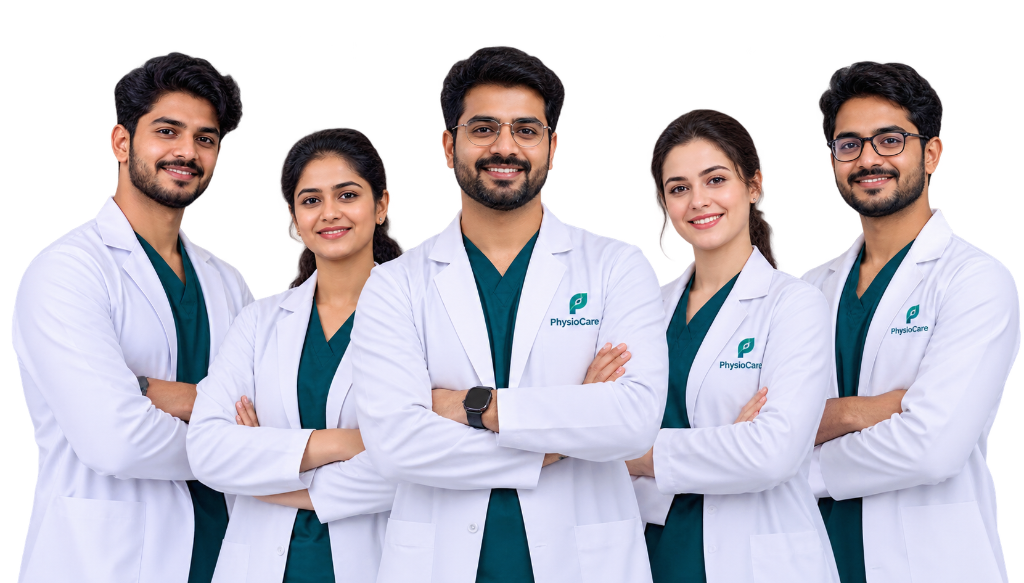
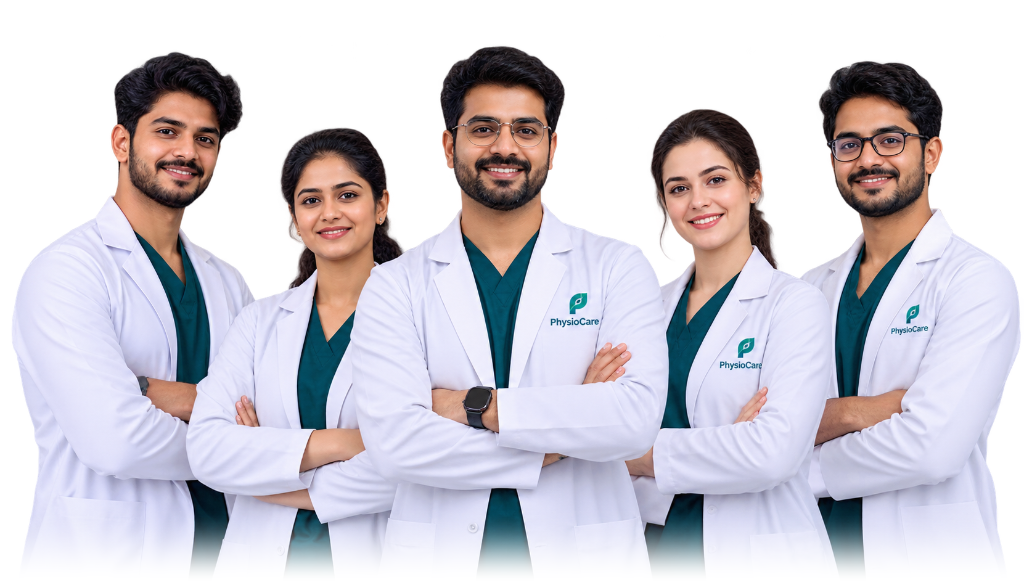
feat(team): expand faculty image size, fix bottom edge with smooth feathering, and add left/right entrance with continuous floating loop

Changed region(s): [[0.0, 0.8954, 1.0, 1.0]]

diff --git a/team.html b/team.html
@@ -234,10 +234,10 @@
       <div class="absolute top-1/2 right-1/4 w-64 h-64 bg-cyan-300/20 dark:bg-cyan-500/5 rounded-full blur-2xl pointer-events-none -z-10"></div>
 
       <div class="max-w-7xl mx-auto px-4 sm:px-6 lg:px-8 relative z-10">
-        <div class="grid lg:grid-cols-12 gap-12 lg:gap-8 items-center">
+        <div class="grid lg:grid-cols-12 gap-8 lg:gap-10 items-center">
           
-          <!-- Left Column: Editorial Content (Centered on Mobile, Left on Desktop) -->
-          <div class="lg:col-span-6 space-y-6 text-center lg:text-left flex flex-col items-center lg:items-start">
+          <!-- Left Column: Editorial Content (5 cols for broader visual balance) -->
+          <div class="lg:col-span-5 space-y-6 text-center lg:text-left flex flex-col items-center lg:items-start">
             
             <!-- Category Badge -->
             <div class="inline-flex items-center gap-2 px-3.5 py-1.5 rounded-full bg-white/90 dark:bg-teal-950/80 border border-teal-200/90 dark:border-teal-800 text-teal-800 dark:text-teal-300 text-xs font-bold uppercase tracking-wider mx-auto lg:mx-0 shadow-2xs">
@@ -246,12 +246,12 @@
             </div>
 
             <!-- Main Heading -->
-            <h1 class="text-3xl sm:text-5xl lg:text-6xl font-black text-slate-900 dark:text-white font-heading tracking-tight leading-[1.12]">
+            <h1 class="text-3xl sm:text-5xl lg:text-5xl xl:text-6xl font-black text-slate-900 dark:text-white font-heading tracking-tight leading-[1.12]">
               The People Who Help You <span class="text-teal-700 dark:text-teal-400">Move Forward.</span>
             </h1>
 
             <!-- Description -->
-            <p class="text-sm sm:text-base lg:text-lg text-slate-600 dark:text-slate-300 max-w-xl mx-auto lg:mx-0 leading-relaxed font-normal">
+            <p class="text-sm sm:text-base text-slate-600 dark:text-slate-300 max-w-xl mx-auto lg:mx-0 leading-relaxed font-normal">
               Skilled hands. Thoughtful care. One shared commitment to your recovery. Every clinician at PhysioCare combines doctoral-level rehabilitation science with dedicated one-on-one attention.
             </p>
 
@@ -269,52 +269,55 @@
             <!-- Micro Metrics Row -->
             <div class="grid grid-cols-3 gap-3 sm:gap-6 pt-6 sm:pt-8 border-t border-slate-200/80 dark:border-slate-800 w-full max-w-md mx-auto lg:mx-0 text-center">
               <div>
-                <p class="text-xl sm:text-2xl lg:text-3xl font-black text-slate-900 dark:text-white font-heading">100%</p>
+                <p class="text-xl sm:text-2xl font-black text-slate-900 dark:text-white font-heading">100%</p>
                 <p class="text-[11px] sm:text-xs text-slate-500 dark:text-slate-400 font-medium mt-0.5">Doctoral Faculty</p>
               </div>
               <div>
-                <p class="text-xl sm:text-2xl lg:text-3xl font-black text-teal-700 dark:text-teal-400 font-heading">15+</p>
+                <p class="text-xl sm:text-2xl font-black text-teal-700 dark:text-teal-400 font-heading">15+</p>
                 <p class="text-[11px] sm:text-xs text-slate-500 dark:text-slate-400 font-medium mt-0.5">Rehab Clinicians</p>
               </div>
               <div>
-                <p class="text-xl sm:text-2xl lg:text-3xl font-black text-slate-900 dark:text-white font-heading">12k+</p>
+                <p class="text-xl sm:text-2xl font-black text-slate-900 dark:text-white font-heading">12k+</p>
                 <p class="text-[11px] sm:text-xs text-slate-500 dark:text-slate-400 font-medium mt-0.5">Patients Healed</p>
               </div>
             </div>
 
           </div>
 
-          <!-- Right Column: Pure Faculty Choreography with Radiant Light Effects (No Borders, No Badges) -->
-          <div class="lg:col-span-6 relative flex items-center justify-center">
+          <!-- Right Column: Grand Faculty Showcase (7 cols - Enhanced Size & Light Effects) -->
+          <div class="lg:col-span-7 relative flex items-center justify-center">
             
-            <!-- Radiant Ambient Light Effects behind the doctors -->
-            <div class="absolute w-[500px] sm:w-[620px] h-[400px] sm:h-[480px] -top-8 left-1/2 -translate-x-1/2 rounded-full bg-gradient-to-tr from-teal-400/35 via-emerald-300/25 to-teal-100/40 dark:from-teal-600/30 dark:via-emerald-500/20 dark:to-transparent blur-3xl pointer-events-none -z-10"></div>
-            <div class="absolute w-72 h-72 bottom-0 left-1/3 rounded-full bg-emerald-400/20 dark:bg-emerald-500/10 blur-2xl pointer-events-none -z-10"></div>
+            <!-- Radiant Ambient Light Effects: Deepened Mint & Emerald Aura -->
+            <div class="absolute w-[600px] sm:w-[750px] lg:w-[850px] h-[450px] sm:h-[520px] -top-10 left-1/2 -translate-x-1/2 rounded-full bg-gradient-to-tr from-teal-400/35 via-emerald-300/25 to-teal-100/40 dark:from-teal-600/30 dark:via-emerald-500/20 dark:to-transparent blur-3xl pointer-events-none -z-10"></div>
+            <div class="absolute w-80 h-80 bottom-0 left-1/4 rounded-full bg-emerald-400/20 dark:bg-emerald-500/10 blur-2xl pointer-events-none -z-10"></div>
+            
+            <!-- Soft Floor Diffusion Light Effect (Blends bottom edge seamlessly into background) -->
+            <div class="absolute -bottom-4 left-1/2 -translate-x-1/2 w-4/5 h-16 bg-gradient-to-r from-transparent via-teal-300/35 dark:via-teal-500/15 to-transparent blur-xl pointer-events-none -z-10"></div>
 
-            <!-- Staged Assembly Stage (Aspect Ratio 1024 / 583 - 100% Responsive, Zero Border) -->
-            <div class="team-choreography-stage w-full max-w-xl lg:max-w-2xl mx-auto drop-shadow-[0_20px_35px_rgba(15,118,110,0.18)] dark:drop-shadow-[0_25px_40px_rgba(0,0,0,0.7)]">
+            <!-- Staged Assembly Stage (Aspect Ratio 1024 / 583 - Max-w-3xl, Zero Border, Smooth Bottom Mask) -->
+            <div class="team-choreography-stage w-full max-w-xl sm:max-w-2xl lg:max-w-3xl xl:max-w-4xl mx-auto drop-shadow-[0_25px_45px_rgba(15,118,110,0.18)] dark:drop-shadow-[0_30px_50px_rgba(0,0,0,0.7)]">
               
-              <!-- Layer 1: Outer Left Therapist (Enters Third) -->
+              <!-- Layer 1: Outer Left Therapist (Enters from Left side) -->
               <img src="assets/images/team/therapist-1-outer-left.png" 
                    alt="PhysioCare Orthopedic Specialist" 
                    class="team-layer team-layer-outer-left">
 
-              <!-- Layer 5: Outer Right Therapist (Enters Third) -->
+              <!-- Layer 5: Outer Right Therapist (Enters from Right side) -->
               <img src="assets/images/team/therapist-5-outer-right.png" 
                    alt="PhysioCare Sports Medicine Specialist" 
                    class="team-layer team-layer-outer-right">
 
-              <!-- Layer 2: Inner Left Therapist (Enters Second) -->
+              <!-- Layer 2: Inner Left Therapist (Enters from Left side) -->
               <img src="assets/images/team/therapist-2-inner-left.png" 
                    alt="PhysioCare Senior Physical Therapist" 
                    class="team-layer team-layer-inner-left">
 
-              <!-- Layer 4: Inner Right Therapist (Enters Second) -->
+              <!-- Layer 4: Inner Right Therapist (Enters from Right side) -->
               <img src="assets/images/team/therapist-4-inner-right.png" 
                    alt="PhysioCare Neurological Rehabilitation Specialist" 
                    class="team-layer team-layer-inner-right">
 
-              <!-- Layer 3: Center Lead Therapist (Enters First) -->
+              <!-- Layer 3: Center Lead Therapist (Enters Center First) -->
               <img src="assets/images/team/therapist-3-center.png" 
                    alt="PhysioCare Clinical Director" 
                    class="team-layer team-layer-center">

diff --git a/assets/css/custom.css b/assets/css/custom.css
@@ -707,17 +707,21 @@ html.no-js .reveal-fade {
 
 
 /* ==========================================================================
-   STAGED FACULTY THERAPIST CHOREOGRAPHY
-   1. Center therapist enters first
-   2. Inner side therapists enter second
-   3. Outer side therapists enter third
+   STAGED FACULTY THERAPIST CHOREOGRAPHY & CONTINUOUS FLOATING LOOP
+   1. Center therapist enters center-up first
+   2. Inner side therapists enter from left and right sides
+   3. Outer side therapists enter from outer left and right flanks
+   4. Smooth bottom edge fade mask (zero sharp cuts)
+   5. Continuous organic floating breathing loop
    ========================================================================== */
 
 .team-choreography-stage {
   position: relative;
   width: 100%;
   aspect-ratio: 1024 / 583;
-  max-width: 680px;
+  max-width: 900px;
+  -webkit-mask-image: linear-gradient(to bottom, #000 0%, #000 78%, rgba(0, 0, 0, 0.6) 90%, transparent 100%);
+  mask-image: linear-gradient(to bottom, #000 0%, #000 78%, rgba(0, 0, 0, 0.6) 90%, transparent 100%);
 }
 
 .team-layer {
@@ -731,35 +735,51 @@ html.no-js .reveal-fade {
   will-change: opacity, transform;
 }
 
+/* Layer 3: Center Lead Therapist (Enters First, then floats gently) */
 .team-layer-center {
   z-index: 30;
-  animation: enterCenterTherapist 0.85s cubic-bezier(0.16, 1, 0.3, 1) 0.15s forwards;
+  animation: 
+    enterCenterTherapist 0.9s cubic-bezier(0.16, 1, 0.3, 1) 0.15s both,
+    floatLoopCenter 4.4s ease-in-out 1.1s infinite alternate;
 }
 
+/* Layer 2: Inner Left Therapist (Enters from Left, then floats) */
 .team-layer-inner-left {
   z-index: 20;
-  animation: enterInnerLeftTherapist 0.85s cubic-bezier(0.16, 1, 0.3, 1) 0.5s forwards;
+  animation: 
+    enterInnerLeftTherapist 0.9s cubic-bezier(0.16, 1, 0.3, 1) 0.45s both,
+    floatLoopInnerLeft 4.8s ease-in-out 1.4s infinite alternate;
 }
 
+/* Layer 4: Inner Right Therapist (Enters from Right, then floats) */
 .team-layer-inner-right {
   z-index: 20;
-  animation: enterInnerRightTherapist 0.85s cubic-bezier(0.16, 1, 0.3, 1) 0.5s forwards;
+  animation: 
+    enterInnerRightTherapist 0.9s cubic-bezier(0.16, 1, 0.3, 1) 0.45s both,
+    floatLoopInnerRight 4.8s ease-in-out 1.4s infinite alternate;
 }
 
+/* Layer 1: Outer Left Therapist (Enters from Far Left, then floats) */
 .team-layer-outer-left {
   z-index: 10;
-  animation: enterOuterLeftTherapist 0.9s cubic-bezier(0.16, 1, 0.3, 1) 0.85s forwards;
+  animation: 
+    enterOuterLeftTherapist 1.0s cubic-bezier(0.16, 1, 0.3, 1) 0.8s both,
+    floatLoopOuterLeft 5.4s ease-in-out 1.8s infinite alternate;
 }
 
+/* Layer 5: Outer Right Therapist (Enters from Far Right, then floats) */
 .team-layer-outer-right {
   z-index: 10;
-  animation: enterOuterRightTherapist 0.9s cubic-bezier(0.16, 1, 0.3, 1) 0.85s forwards;
+  animation: 
+    enterOuterRightTherapist 1.0s cubic-bezier(0.16, 1, 0.3, 1) 0.8s both,
+    floatLoopOuterRight 5.4s ease-in-out 1.8s infinite alternate;
 }
 
+/* Entrance Keyframes: Center, Left Sides, and Right Sides */
 @keyframes enterCenterTherapist {
   0% {
     opacity: 0;
-    transform: translateY(40px) scale(0.94);
+    transform: translateY(65px) scale(0.9);
   }
   100% {
     opacity: 1;
@@ -770,7 +790,7 @@ html.no-js .reveal-fade {
 @keyframes enterInnerLeftTherapist {
   0% {
     opacity: 0;
-    transform: translateX(30px) translateY(30px) scale(0.95);
+    transform: translateX(-150px) translateY(25px) scale(0.92);
   }
   100% {
     opacity: 1;
@@ -781,7 +801,7 @@ html.no-js .reveal-fade {
 @keyframes enterInnerRightTherapist {
   0% {
     opacity: 0;
-    transform: translateX(-30px) translateY(30px) scale(0.95);
+    transform: translateX(150px) translateY(25px) scale(0.92);
   }
   100% {
     opacity: 1;
@@ -792,7 +812,7 @@ html.no-js .reveal-fade {
 @keyframes enterOuterLeftTherapist {
   0% {
     opacity: 0;
-    transform: translateX(-45px) translateY(30px) scale(0.95);
+    transform: translateX(-260px) translateY(35px) scale(0.88);
   }
   100% {
     opacity: 1;
@@ -803,11 +823,57 @@ html.no-js .reveal-fade {
 @keyframes enterOuterRightTherapist {
   0% {
     opacity: 0;
-    transform: translateX(45px) translateY(30px) scale(0.95);
+    transform: translateX(260px) translateY(35px) scale(0.88);
   }
   100% {
     opacity: 1;
     transform: translate(0, 0) scale(1);
+  }
+}
+
+/* Continuous Subtle Floating Loop Keyframes */
+@keyframes floatLoopCenter {
+  0% {
+    transform: translateY(0) scale(1);
+  }
+  100% {
+    transform: translateY(-8px) scale(1.008);
+  }
+}
+
+@keyframes floatLoopInnerLeft {
+  0% {
+    transform: translate(0, 0);
+  }
+  100% {
+    transform: translate(-3px, -6px);
+  }
+}
+
+@keyframes floatLoopInnerRight {
+  0% {
+    transform: translate(0, 0);
+  }
+  100% {
+    transform: translate(3px, -6px);
+  }
+}
+
+@keyframes floatLoopOuterLeft {
+  0% {
+    transform: translate(0, 0);
+  }
+  100% {
+    transform: translate(-5px, -7px);
+  }
+}
+
+@keyframes floatLoopOuterRight {
+  0% {
+    transform: translate(0, 0);
+  }
+  100% {
+    transform: translate(5px, -7px);
   }
 }
 
